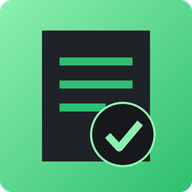
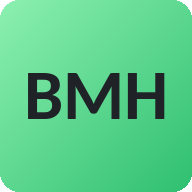
BMH v43: novo nome e logótipo, programas com frase e ficheiro, dois registos (meus e do Secretário), tipos de publicador e funções de ancião
Claude-Session: https://claude.ai/code/session_014jeg4qPBdjkUFjzhRY86ur

diff --git a/index.html b/index.html
@@ -13,7 +13,7 @@
 <link rel="preconnect" href="https://fonts.googleapis.com">
 <link rel="preconnect" href="https://fonts.gstatic.com" crossorigin>
 <link rel="stylesheet" href="https://fonts.googleapis.com/css2?family=Oswald:wght@400;500;600&display=swap">
-<title>Meu Grupo</title>
+<title>BMH</title>
 <style>
 /* Infográfico escuro: fundo carvão, amarelo dourado, separadores em ponta de seta e linha de tempo à esquerda. */
 :root{
@@ -247,8 +247,8 @@ a.btn{text-decoration:none}
 
 <section class="screen" id="home">
   <header class="appbar">
-    <svg class="logo" viewBox="0 0 64 64" role="img" aria-label="Logótipo Meu Grupo"><defs><linearGradient id="lg" x1="0" y1="0" x2="1" y2="1"><stop offset="0" style="stop-color:var(--lg1)"/><stop offset="1" style="stop-color:var(--lg2)"/></linearGradient></defs><rect width="64" height="64" rx="4" fill="url(#lg)"/><rect x="14" y="10" width="36" height="44" rx="2" fill="#1f2226"/><rect x="20" y="19" width="24" height="3" style="fill:var(--lg2)"/><rect x="20" y="26" width="24" height="3" style="fill:var(--lg2)"/><rect x="20" y="33" width="15" height="3" style="fill:var(--lg2)"/><circle cx="42" cy="44" r="11" fill="#16181b" style="stroke:var(--lg3)" stroke-width="2"/><path d="M37 44.5l3.6 4 6.4-7.6" fill="none" style="stroke:var(--lg3)" stroke-width="2.6" stroke-linecap="round" stroke-linejoin="round"/></svg>
-    <div class="sp"><h1>Meu Grupo</h1><small>Lista de recolha do grupo</small></div>
+    <svg class="logo" viewBox="0 0 64 64" role="img" aria-label="Logótipo BMH"><defs><linearGradient id="lg" x1="0" y1="0" x2="1" y2="1"><stop offset="0" style="stop-color:var(--lg1)"/><stop offset="1" style="stop-color:var(--lg2)"/></linearGradient></defs><rect width="64" height="64" rx="4" fill="url(#lg)"/><text x="32" y="43" text-anchor="middle" font-family="Carlito,Calibri,Arial,sans-serif" font-weight="800" font-size="29" fill="#1f2226" textLength="51" lengthAdjust="spacingAndGlyphs">BMH</text></svg>
+    <div class="sp"><h1>BMH</h1><small>Lista de recolha do grupo</small></div>
     <button class="ib themeBtn" aria-label="Mudar entre modo dia e noite" type="button"><svg class="sun" viewBox="0 0 24 24"><path d="M12 7a5 5 0 1 0 0 10 5 5 0 0 0 0-10zM2 13h2v-2H2v2zm18 0h2v-2h-2v2zM11 2v2h2V2h-2zm0 18v2h2v-2h-2zM5.99 4.58 4.58 5.99l1.41 1.41 1.41-1.41-1.41-1.41zm12.02 12.02-1.41 1.41 1.41 1.41 1.41-1.41-1.41-1.41zM18.01 7.4l1.41-1.41-1.41-1.41-1.41 1.41 1.41 1.41zM7.4 18.01l-1.41 1.41-1.41-1.41 1.41-1.41 1.41 1.41z"/></svg><svg class="moon" viewBox="0 0 24 24"><path d="M12.3 3a9 9 0 1 0 8.7 11.6A7 7 0 0 1 12.3 3z"/></svg></button>
   </header>
   <main>
@@ -406,8 +406,10 @@ a.btn{text-decoration:none}
     </div>
     <div class="lbl" style="margin:6px 2px 0">Ano de serviço</div>
     <select class="fld" id="meSy" aria-label="Ano de serviço"></select>
+    <div class="seg" id="meVw" role="radiogroup" aria-label="Que registos ver" style="grid-template-columns:repeat(3,1fr);margin-top:10px"><button role="radio" data-v="m" type="button">Os meus</button><button role="radio" data-v="s" type="button">Secretário</button><button role="radio" data-v="c" type="button">Comparar</button></div>
+    <p class="hint" id="meVwH" style="margin:6px 2px 0"></p>
     <div class="ficha" id="meHist"></div>
-    <p class="tip">Só tu vês estes dados. Ficam neste telemóvel. Para receber os registos anteriores, pede ao superintendente que te envie a tua ficha e abre o link.</p>
+    <p class="tip">Só tu vês estes dados. Ficam neste telemóvel. Para receber os registos anteriores, pede a tua ficha ao Secretário e abre o link ou o ficheiro que ele te enviar.</p>
     <button class="btn text" id="meImp" type="button">Importar a minha ficha (.tsxr)</button>
   </main>
   <button class="fab" id="meAdd" type="button"><svg viewBox="0 0 24 24"><path d="M19 13h-6v6h-2v-6H5v-2h6V5h2v6h6v2z"/></svg>Relatório do mês</button>
@@ -1129,7 +1131,7 @@ $("pFile").onchange=function(){var fs=[].slice.call(this.files);this.value="";va
 $("regImp").onclick=function(){$("pFile").click();};
 function importReg(f){
   var fr=new FileReader();fr.onload=function(){
-    var o;try{o=JSON.parse(fr.result);if(!o||!o.pubs||!o.pubs.length||typeof o.group!=="number")throw 0;}catch(e){toast("Este ficheiro não é uma cópia de publicadores da aplicação Meu Grupo.",1);return;}
+    var o;try{o=JSON.parse(fr.result);if(!o||!o.pubs||!o.pubs.length||typeof o.group!=="number")throw 0;}catch(e){toast("Este ficheiro não é uma cópia de publicadores da aplicação BMH.",1);return;}
     var sp=PG,sr=REG;PG=o.group;REG=loadReg(o.group);var n=0;
     o.pubs.forEach(function(q){var k=norm((q.first||"")+" "+(q.last||"")),p=REG.pubs.filter(function(x){return norm(pname(x))===k})[0];
       if(!p){p=newPub();REG.pubs.push(p);}var id=p.id;for(var a in q)p[a]=q[a];p.id=id;if(!p.rec)p.rec={};n++;});
@@ -1183,8 +1185,25 @@ function renderMe(){
   sel.value=SY;
   var H=0,E=0,M=0;for(var k=0;k<12;k++){var mm=(8+k)%12,yy=k<4?SY-1:SY,r=getRec(ME,mm,yy);if(r){H+=r.h||0;E+=r.e||0;if(r.p||r.h||r.e)M++;}}
   $("meTot").textContent=H;$("meSt").textContent=E;$("meMo").textContent=M;$("meAv").textContent=M?Math.round(H/M):0;
-  crDraw();var box=$("meHist");box.textContent="";box.appendChild(s21Table(ME,SY,null,function(m,y){openMeS(m,y);}));
+  crDraw();renderMeView();
 }
+var MV="m";
+function mvSame(a,b){var pa=!!(a&&(a.p||a.h||a.e)),pb=!!(b&&(b.p||b.h||b.e));return pa===pb&&((a&&a.h)|0)===((b&&b.h)|0)&&((a&&a.e)|0)===((b&&b.e)|0);}
+function mvDiffs(){var n=0,sr=ME.sec?ME.sec.rec:{};for(var k=0;k<12;k++){var mm=(8+k)%12,yy=k<4?SY-1:SY,key=rk(mm,yy);if(!mvSame(ME.rec[key],sr[key]))n++;}return n;}
+function renderMeView(){
+  document.querySelectorAll("#meVw button").forEach(function(b){b.setAttribute("aria-checked",b.dataset.v===MV);});
+  var box=$("meHist"),h=$("meVwH");box.textContent="";var sec=ME.sec&&ME.sec.rec?ME.sec:null;
+  if(MV==="m"){h.textContent="Os registos que tu manténs. Toca num mês para editar.";box.appendChild(s21Table(ME,SY,null,function(m,y){openMeS(m,y);}));return;}
+  if(!sec){h.textContent="Ainda não recebeste a ficha do Secretário. Pede-a ao Secretário e abre o link ou o ficheiro que ele te enviar.";return;}
+  var d=new Date(sec.at||0),ds=sec.at?(("0"+d.getDate()).slice(-2)+"/"+("0"+(d.getMonth()+1)).slice(-2)+"/"+d.getFullYear()):"";
+  if(MV==="s"){h.textContent="Registos enviados pelo Secretário"+(ds?" (recebidos em "+ds+")":"")+". Só para consulta.";var t=s21Table({rec:sec.rec},SY,null,function(){});box.appendChild(t);return;}
+  var n=mvDiffs();h.textContent=(n?n+(n===1?" mês diferente":" meses diferentes"):"Os registos coincidem")+" neste ano de serviço. Secretário"+(ds?" ("+ds+")":"")+".";
+  var rows="",T1=0,T2=0,E1=0,E2=0;
+  for(var k=0;k<12;k++){var mm=(8+k)%12,yy=k<4?SY-1:SY,key=rk(mm,yy),a=ME.rec[key],b=sec.rec[key],same=mvSame(a,b),ha=(a&&a.h)|0,hb=(b&&b.h)|0,ea=(a&&a.e)|0,eb=(b&&b.e)|0;T1+=ha;T2+=hb;E1+=ea;E2+=eb;
+    var st=same?(a||b?"Igual":""):(!b?"Só tu":(!a?"Só Secretário":"Diferente")),cs=same?"":' style="color:var(--bad);font-weight:700"';
+    rows+="<tr><td>"+MESES[mm]+"</td><td"+cs+">"+(a?(ha||(a.p?"pregou":"")):"")+"</td><td"+cs+">"+(ea||"")+"</td><td"+cs+">"+(b?(hb||(b.p?"pregou":"")):"")+"</td><td"+cs+">"+(eb||"")+"</td><td"+cs+">"+st+"</td></tr>";}
+  var tw=document.createElement("div");tw.className="tw";tw.innerHTML='<table style="font-size:12px;table-layout:auto;min-width:0;width:100%"><thead><tr><th>Mês</th><th>Meus<br>horas</th><th>Meus<br>estudos</th><th>Secret.<br>horas</th><th>Secret.<br>estudos</th><th>Estado</th></tr></thead><tbody>'+rows+'<tr class="tot"><td>Total</td><td>'+T1+'</td><td>'+E1+'</td><td>'+T2+'</td><td>'+E2+'</td><td></td></tr></tbody></table>';box.appendChild(tw);}
+document.querySelectorAll("#meVw button").forEach(function(b){b.onclick=function(){MV=b.dataset.v;if(ME)renderMeView();};});
 $("meBtn").onclick=openMe;
 $("meBack").onclick=function(){$("me").hidden=true;goHome();};
 $("meSy").onchange=function(){SY=+this.value;renderMe();};
@@ -1246,11 +1265,23 @@ $("meSend").onclick=function(){var k=saveMeS();if(!k)return;renderMe();var key=r
 var APP_URL="https://myfmwg.netlify.app/";
 function sendLink(o){var b=/^https?:/.test(location.protocol)?location.href.split("#")[0]:APP_URL;return b+"#"+o.k+"="+pack(o);}
 function sendText(o){
-  var t;if(o.k==="m")return "Programa de reuniões: "+cleanS(o.d.m.t,40)+"\nAbre no Meu Grupo: "+sendLink(o);if(o.k==="k")return "Programa mensal do carrinho: "+cleanS(o.d.k.t,40)+"\nAbre no Meu Grupo: "+sendLink(o);if(PK.test(o.k))return (o.k==="p"?"Programa da reunião Vida e Ministério Cristão ("+o.d.w.length+" semanas)":(o.k==="x"?"Configuração de acessos do Meu Grupo":"Programa de campo: "+cleanS(o.d.c.t,40)))+"\nAbre no Meu Grupo: "+sendLink(o);
+  var t;if(o.k==="m")return "Programa de reuniões: "+cleanS(o.d.m.t,40)+"\nAbre no BMH: "+sendLink(o);if(o.k==="k")return "Programa mensal do carrinho: "+cleanS(o.d.k.t,40)+"\nAbre no BMH: "+sendLink(o);if(PK.test(o.k))return (o.k==="p"?"Programa da reunião Vida e Ministério Cristão ("+o.d.w.length+" semanas)":(o.k==="x"?"Configuração de acessos do BMH":"Programa de campo: "+cleanS(o.d.c.t,40)))+"\nAbre no BMH: "+sendLink(o);
   if(o.k==="r"&&o.r.length===1){var a=o.r[0];t="Relatório de serviço de campo, "+o.f+" "+o.l+" (Grupo "+o.g+")\n"+mesLbl(a)+": "+(a[3]?a[3]+" h, ":"")+a[4]+" estudos"+(a[2]||a[3]||a[4]?"":" (não pregou)")+"\n";}
   else t=(o.k==="f"?"Os teus registos de serviço, ":"Relatórios, ")+o.f+" "+o.l+"\n";
-  return t+"Abre no Meu Grupo: "+sendLink(o);}
+  return t+"Abre no BMH: "+sendLink(o);}
+function sendPhrase(o){
+  function cap(t){t=String(t||"").toLowerCase();return t.charAt(0).toUpperCase()+t.slice(1);}
+  if(o.k==="p"){var ms=[],re=/janeiro|fevereiro|mar[cç]o|abril|maio|junho|julho|agosto|setembro|outubro|novembro|dezembro/i;o.d.w.forEach(function(w){var m=re.exec(w.lbl||"");if(m){var x=m[0].toLowerCase();if(ms.indexOf(x)<0)ms.push(x);}});
+    return "Programa de RVMC de "+(ms.length?ms.join(" e "):MESES[new Date().getMonth()].toLowerCase());}
+  if(o.k==="m")return "Programa de reuniões de "+cap(o.d.m.t);
+  if(o.k==="k")return "Programa do carrinho de "+cap(o.d.k.t);
+  if(o.k==="c")return "Programa de campo de "+cap(o.d.c.t);
+  return "Configuração de acessos do BMH";}
 function openSend(o,title,sub){
+  var pk=PK.test(o.k),bw=$("sendWa"),bf=$("sendFile");
+  bf.className=pk?"btn":"btn tonal";bf.textContent=pk?"Enviar com uma frase (ficheiro)":"Partilhar ficheiro (.tsxr)";
+  bw.className=pk?"btn tonal":"btn";bw.textContent=pk?"Enviar o link (código longo)":"Enviar por WhatsApp (link)";
+  if(pk){$("sendFile").parentNode.insertBefore(bf,bw);}else{$("sendFile").parentNode.insertBefore(bw,bf);}
   if(PK.test(o.k)){SEND={o:o,fn:(o.k==="p"?"Programa-VMC":o.k==="m"?"Reunioes":o.k==="k"?"Carrinho":o.k==="x"?"Acessos":"Programa-Campo")+".tsxr"};$("sendT").textContent=title;$("sendSub").textContent=sub;$("sendImg").hidden=o.k!=="k"&&o.k!=="c"&&o.k!=="m";show("sendS");return;}
   $("sendImg").hidden=true;var a=o.r.length===1?o.r[0]:null,nm=(o.f+"-"+o.l).replace(/[^\w-]+/g,"");
   SEND={o:o,fn:(o.k==="r"?"Relatorio-"+(a?MESES[a[1]]+a[0]:"")+"-":"Ficha-")+nm+".tsxr"};
@@ -1258,10 +1289,11 @@ function openSend(o,title,sub){
 $("sendWa").onclick=function(){window.open("https://wa.me/?text="+encodeURIComponent(sendText(SEND.o)),"_blank");};
 $("sendCopy").onclick=function(){var t=sendText(SEND.o);
   try{navigator.clipboard.writeText(t).then(function(){toast("Link copiado. Cola numa mensagem.");},function(){toast("Não consegui copiar.",1);});}catch(e){toast("Não consegui copiar.",1);}};
-$("sendFile").onclick=function(){var txt=JSON.stringify(SEND.o),fn=SEND.fn;
-  try{var f=new File([txt],fn,{type:"application/json"});
-    if(navigator.canShare&&navigator.canShare({files:[f]})){navigator.share({files:[f],title:fn}).catch(function(){});return;}}catch(e){}
-  dl(new Blob([txt],{type:"application/json"}),fn);toast("Ficheiro guardado em Transferências. Envia-o por WhatsApp.");};
+$("sendFile").onclick=function(){var txt=JSON.stringify(SEND.o),fn=SEND.fn,ph=PK.test(SEND.o.k)?sendPhrase(SEND.o):"";
+  try{var f=new File([txt],fn,{type:"application/json"}),d=ph?{files:[f],title:fn,text:ph}:{files:[f],title:fn};
+    if(navigator.canShare&&navigator.canShare(d)){navigator.share(d).catch(function(){});return;}}catch(e){}
+  dl(new Blob([txt],{type:"application/json"}),fn);
+  if(ph){try{navigator.clipboard.writeText(ph);}catch(e){}toast("Ficheiro guardado. Anexa-o no WhatsApp; a frase foi copiada.");}else toast("Ficheiro guardado em Transferências. Envia-o por WhatsApp.");};
 $("fSend").onclick=function(){if(!cur)return;saveReg();openSend(mkPayload("f",cur,PG),"Ficha de "+pname(cur),"O publicador abre o link no telemóvel dele e fica com os seus registos para consultar. Só ele os vê.");};
 /* receber */
 function queuePayload(o){if(!validPayload(o))return false;PEND.push({k:o.k,o:o,create:false});return true;}
@@ -1279,7 +1311,7 @@ function showRcv(){
     if(PK.test(it.k)){b.textContent=it.k==="m"?"Programa de reuniões ("+cleanS(o.d.m.t,40)+")":it.k==="x"?"Configuração de acessos ("+Object.keys(o.d.x.roles||{}).length+" funções)":it.k==="k"?"Programa do carrinho ("+cleanS(o.d.k.t,40)+")":it.k==="p"?"Programa Vida e Ministério ("+o.d.w.length+" semanas)":"Programa de campo ("+cleanS(o.d.c.t,40)+")";sm.textContent="Vai substituir "+(it.k==="p"?"o programa":it.k==="m"?"o programa de reuniões":it.k==="x"?"a configuração de acessos":it.k==="k"?"o quadro do carrinho":"o programa de campo")+" que tens neste telemóvel.";row.appendChild(b);row.appendChild(sm);box.appendChild(row);return;}
     b.textContent=(o.f+" "+o.l).trim()+" · Grupo "+o.g;row.appendChild(b);
     var rs=o.r.filter(okArr);
-    if(it.k==="f"){sm.textContent=rs.length+" meses de registo. Vão ficar neste telemóvel como os teus dados."+(ME&&norm(pname(ME))!==norm(o.f+" "+o.l)?" Atenção: vão substituir os dados de "+pname(ME)+".":"");row.appendChild(sm);}
+    if(it.k==="f"){sm.textContent=rs.length+" meses de registo. Ficam guardados como os registos do Secretário, separados dos teus, para comparares."+(ME&&norm(pname(ME))!==norm(o.f+" "+o.l)?" Atenção: vão substituir os dados de "+pname(ME)+".":"");row.appendChild(sm);}
     else{var reg=loadReg(o.g),p=findPub(reg,o.f,o.l);
       rs.forEach(function(a){var ex=p&&getRec(p,a[1],a[0]),st=!p?"":(!ex?" · novo":((ex.h===a[3]&&ex.e===a[4])?" · já lançado":" · substitui ("+(ex.h||0)+" h, "+(ex.e||0)+" est.)"));
         var d=document.createElement("small");d.textContent=mesLbl(a)+": "+(a[3]?a[3]+" h":(a[2]?"pregou":"não pregou"))+", "+a[4]+" estudos"+st;row.appendChild(d);});
@@ -1293,7 +1325,7 @@ $("rcvNo").onclick=function(){PEND=[];hide();};
 $("rcvOk").onclick=function(){
   var n=0,me=0,prg=0,sp=PG,sr=REG;
   PEND.forEach(function(it){if(PK.test(it.k)){applyProg(it);prg++;return;}var o=it.o,rs=o.r.filter(okArr);
-    if(it.k==="f"){var same=ME&&norm(pname(ME))===norm(o.f+" "+o.l);ME={first:o.f,last:o.l,group:o.g,tipo:(typeof o.y==="number"?o.y|0:(same?ME.tipo:0))||0,sex:o.x||"",rec:same?ME.rec:{}};rs.forEach(function(a){ME.rec[a[0]+"-"+a[1]]=arrToRec(a);});saveMe();me++;return;}
+    if(it.k==="f"){var same=ME&&norm(pname(ME))===norm(o.f+" "+o.l);var own=same?ME.rec:{},hadOwn=Object.keys(own).length>0;ME={first:o.f,last:o.l,group:o.g,tipo:(typeof o.y==="number"?o.y|0:(same?ME.tipo:0))||0,sex:o.x||"",rec:own,sec:{at:Date.now(),rec:{}}};rs.forEach(function(a){var k=a[0]+"-"+a[1];ME.sec.rec[k]=arrToRec(a);if(!hadOwn)ME.rec[k]=arrToRec(a);});saveMe();me++;return;}
     PG=o.g;REG=loadReg(o.g);var p=findPub(REG,o.f,o.l);
     if(!p&&it.create){p=newPub(o.f,o.l);p.sex=o.x||"";REG.pubs.push(p);}
     if(!p)return;rs.forEach(function(a){var k=a[0]+"-"+a[1];delete p.rec[k];p.rec[k]=arrToRec(a);n++;});saveReg();});
@@ -1512,7 +1544,7 @@ function fDay(e,tarde){var f=PRG.c;if(e.w)return e.w;return FD[new Date(f.y,f.m,
 function fCol(e){return (e.c===0||e.c===1)?e.c:(e.n<=17?0:1);}
 function esc(t){return String(t==null?"":t).replace(/&/g,"&amp;").replace(/</g,"&lt;").replace(/>/g,"&gt;");}
 function fm(t){return esc(t).replace(/\*\*(.+?)\*\*/g,"<b>$1</b>").replace(/\[\[(.+?)\]\]/g,'<span class="lk">$1</span>').replace(/(\(T\d+\))/g,'<span class="lk">$1</span>').replace(/\n/g,"<br/>");}
-var FCSS='.fp{width:794px;min-height:1123px;box-sizing:border-box;background:#fff;color:#000;font:14px/1.25 Calibri,Carlito,"Segoe UI",Arial,sans-serif;padding:40px 36px}.fp table{border-collapse:collapse;width:100%;table-layout:fixed}.fp td,.fp th{border:1px solid #000;padding:3px 4px;text-align:center;vertical-align:middle;overflow-wrap:break-word;font-weight:normal}.fp .ttl{background:#FFD966;font-weight:bold;font-size:17px;padding:5px;text-transform:uppercase}.fp .hd td{background:#DDEBF7}.fp .lk{color:#0000EE;text-decoration:underline}.fp .t1{width:72%;margin:0 auto 26px;font-size:12px}.fp .t1 .ttl{font-size:15px}.fp .sg td{text-align:left;font-size:15px;padding:2px 8px}.fp .tri{padding:0!important}.fp .tri div{display:flex;min-height:20px}.fp .tri i{flex:1;background:#FFC000}.fp .tri b{flex:none;width:70px;background:#fff;border-left:1px solid #000;border-right:1px solid #000;display:flex;align-items:center;justify-content:center}';
+var FCSS='.fp{width:794px;min-height:1123px;box-sizing:border-box;background:#fff;color:#000;font:14px/1.25 Calibri,Carlito,"Segoe UI",Arial,sans-serif;padding:40px 36px;display:flex;flex-direction:column}.fp .fgrow{flex:1 1 auto;display:flex;flex-direction:column;min-height:0}.fp .fgrow>table{flex:1 1 auto}.fp table{border-collapse:collapse;width:100%;table-layout:fixed}.fp td,.fp th{border:1px solid #000;padding:3px 4px;text-align:center;vertical-align:middle;overflow-wrap:break-word;font-weight:normal}.fp .ttl{background:#FFD966;font-weight:bold;font-size:17px;padding:5px;text-transform:uppercase}.fp .hd td{background:#DDEBF7}.fp .lk{color:#0000EE;text-decoration:underline}.fp .t1{width:72%;margin:0 auto 26px;font-size:12px}.fp .t1 .ttl{font-size:15px}.fp .sg td{text-align:left;font-size:15px;padding:2px 8px}.fp .tri{padding:0!important}.fp .tri div{display:flex;min-height:20px}.fp .tri i{flex:1;background:#FFC000}.fp .tri b{flex:none;width:70px;background:#fff;border-left:1px solid #000;border-right:1px solid #000;display:flex;align-items:center;justify-content:center}';
 var FBG={h:"#FFD966",s:"#FFFF00",o:"#B4C7E7"};
 function fTop(){var f=PRG.c,h='<table class="t1"><colgroup><col style="width:13%"/><col style="width:24%"/><col style="width:27%"/><col style="width:13%"/><col style="width:23%"/></colgroup><tr><td colspan="5" class="ttl">LOCAIS E HORÁRIO DAS REUNIÕES PARA O MINISTÉRIO: '+esc(f.t)+'</td></tr>'
   +'<tr><td colspan="3">MANHÃ</td><td colspan="2">TARDE</td></tr><tr><td><b>DIA</b></td><td>HORA</td><td>LOCAL</td><td>DIA</td><td>HORAS</td></tr><tr><td>&#160;</td><td></td><td></td><td></td><td></td></tr>';
@@ -1524,8 +1556,8 @@ function fEc(e,tarde){if(!e){var nb=tarde?' style="border:none"':'';return '<td'
   var fo=e.tp==="n"?fm(e.f):"<b>"+fm(e.f)+"</b>",dr=e.tp==="d"?'<b class="lk">'+esc(e.r)+"</b>":fm(e.r);
   return '<td'+st+'>'+fPad(e.n)+'</td><td'+st+'>'+fDay(e,tarde)+'</td><td'+st+'>'+fo+'</td><td'+st+'>'+dr+'</td>';}
 function fList(list,title,tarde){var L=list.filter(function(e){return fCol(e)===0;}).sort(function(a,b){return a.n-b.n;}),R=list.filter(function(e){return fCol(e)===1;}).sort(function(a,b){return a.n-b.n;}),n=Math.max(L.length,R.length);
-  var h='<table><colgroup><col style="width:5%"/><col style="width:6%"/><col style="width:27%"/><col style="width:14%"/><col style="width:5.5%"/><col style="width:6%"/><col style="width:23%"/><col style="width:13.5%"/></colgroup><tr><td colspan="8" class="ttl">'+title+'</td></tr><tr class="hd"><td></td><td>DIA</td><td>FONTE</td><td>DIRIGENTE</td><td colspan="2">DIA</td><td>FONTE</td><td>DIRIGENTE</td></tr>';
-  for(var i=0;i<n;i++)h+="<tr>"+fEc(L[i],tarde)+fEc(R[i],tarde)+"</tr>";return h+"</table>";}
+  var h='<div class="fgrow"><table><colgroup><col style="width:5%"/><col style="width:6%"/><col style="width:27%"/><col style="width:14%"/><col style="width:5.5%"/><col style="width:6%"/><col style="width:23%"/><col style="width:13.5%"/></colgroup><tr><td colspan="8" class="ttl">'+title+'</td></tr><tr class="hd"><td></td><td>DIA</td><td>FONTE</td><td>DIRIGENTE</td><td colspan="2">DIA</td><td>FONTE</td><td>DIRIGENTE</td></tr>';
+  for(var i=0;i<n;i++)h+="<tr>"+fEc(L[i],tarde)+fEc(R[i],tarde)+"</tr>";return h+"</table></div>";}
 function fSig(){var g=PRG.c.sig,k=Math.ceil(g.length/2),h='<table class="sg" style="width:92%;margin:46px auto 0"><colgroup><col style="width:9%"/><col style="width:40%"/><col style="width:9%"/><col style="width:42%"/></colgroup><tr><td>SÍGLA</td><td>PUBLICAÇÃO</td><td>SÍGLA</td><td>PUBLICAÇÃO</td></tr>';
   for(var i=0;i<k;i++){var a=g[i]||["",""],b=g[i+k]||["",""];h+="<tr><td><b>"+esc(a[0])+"</b></td><td>"+esc(a[1])+"</td><td><b>"+esc(b[0])+"</b></td><td>"+esc(b[1])+"</td></tr>";}return h+"</table>";}
 function fPages(){var f=PRG.c;return ['<div class="fp">'+fTop()+fList(f.man,"DIRIGENTES DO PERIODO DA MANHÃ",false)+"</div>",'<div class="fp">'+fList(f.tar,"DIRIGENTES DO PERIODO DA TARDE",true)+fSig()+"</div>"];}
@@ -1604,9 +1636,12 @@ function sha256(a){function rr(v,n){return (v>>>n)|(v<<(32-n));}
   for(i=0;i<8;i++)for(j=3;j+1;j--){var b=(h[i]>>(j*8))&255;res+=((b<16)?0:"")+b.toString(16);}
   return res;}
 var ACK="tsxp.v2.acl",ACL={on:false,roles:{},perm:{},codes:{},mine:{}},ACX=0,ACD=null;
-var ROLES=[["an","Ancião"],["sg","Superintendente de grupo"],["rv","Superintendente da reunião Vida e Ministério"],["sm","Servo ministerial"],["pr","Pioneiro regular"],["pa","Pioneiro auxiliar"]];
+var ROLES=[["an","Ancião"],["sm","Servo ministerial"],["pe","Pioneiro especial"],["pr","Pioneiro regular"],["pa","Pioneiro auxiliar"],["pb","Publicador batizado"],["pn","Publicador não batizado"],["em","Estudante matriculado"],["en","Estudante não matriculado"],["ss","Superintendente de serviço"],["se","Secretário"],["sg","Superintendente de grupo"],["rv","Superintendente da reunião Vida e Ministério"]];
+var TIERS=[["an","anciãos"],["sm","servos ministeriais"],["pe","pioneiros especiais"],["pr","pioneiros regulares"],["pa","pioneiros auxiliares"],["pb","publicadores batizados"],["pn","publicadores não batizados"],["em","estudantes matriculados"],["en","estudantes não matriculados"]];
+function tierTxt(r){var i=-1;TIERS.forEach(function(t,k){if(t[0]===r)i=k;});if(i<0)return "Função que cabe a um ancião. Soma-se ao que ele já vê pelo seu tipo.";if(i===0)return "Vê todas as abas e todos os recursos.";
+  var up=TIERS.slice(0,i).map(function(t){return t[1];}),l=up.length>1?up.slice(0,-1).join(", ")+" e "+up[up.length-1]:up[0];return "Vê todas as abas, exceto alguns recursos de "+l+", a menos que também tenha uma dessas funções.";}
 var FEAT=[["grupo","Lista do grupo, cadastro e relatórios"],["vmc","Editar o programa de reuniões e as partes da semana"],["campo","Editar o programa de campo"],["carrinho","Editar o quadro do carrinho"]];
-var DEFP={sg:["grupo"],rv:["vmc"],sm:["campo","carrinho"],pr:[],pa:[]};
+var DEFP={ss:["campo","carrinho"],se:["grupo"],sg:["grupo"],rv:["vmc"],sm:["campo","carrinho"],pe:[],pr:[],pa:[],pb:[],pn:[],em:[],en:[]};
 try{var a0=JSON.parse(lsGet(ACK)||"null");if(a0&&a0.roles&&a0.perm)ACL={on:!!a0.on,roles:a0.roles,perm:a0.perm,codes:a0.codes||{},mine:a0.mine||{}};}catch(e){}
 function aclSave(){lsSet(ACK,JSON.stringify(ACL));}
 function hasRole(r){return !!ACL.roles[r]&&ACL.mine[r]===ACL.roles[r].h;}
@@ -1636,11 +1671,13 @@ $("acBtn").onclick=function(){
   $("acSt").textContent=ACL.on?"Acessos ativos. Só quem tem código de uma função vê os menus dessa função. Os anciãos veem tudo.":"Acessos desativados: todos veem tudo. Define um código por função e carrega em “Guardar e ativar”.";
   $("acConf").hidden=true;$("acOff").dataset.c="";$("acOff").hidden=!ACL.on;$("acSend").hidden=!ACL.on;renderAc();show("acS");};
 function renderAc(){var box=$("acRoles");box.textContent="";
-  ROLES.forEach(function(x){var r=x[0],c=document.createElement("div");c.className="wit";var t=document.createElement("b");t.textContent=x[1];c.appendChild(t);
+  ROLES.forEach(function(x){var r=x[0];if(r==="an"||r==="ss"){var hh=document.createElement("div");hh.className="lbl";hh.style.margin="12px 0 4px";hh.textContent=r==="an"?"Tipos de publicador (do mais alto ao mais baixo)":"Funções de ancião (somam-se ao tipo)";box.appendChild(hh);}
+  var c=document.createElement("div");c.className="wit";var t=document.createElement("b");t.textContent=x[1];c.appendChild(t);
     var g=document.createElement("div");g.className="field2";g.style.gridTemplateColumns="1fr 96px";
     var i=document.createElement("input");i.className="fld";i.type="text";i.maxLength=30;i.placeholder=r==="an"?"Código dos anciãos (obrigatório)":"Código (vazio = ninguém desbloqueia)";i.value=ACD.codes[r];i.setAttribute("aria-label","Código de "+x[1]);i.oninput=function(){ACD.codes[r]=i.value.trim().toUpperCase();};
     var b=document.createElement("button");b.className="btn tonal";b.type="button";b.textContent="Gerar";b.onclick=function(){ACD.codes[r]=genCode();i.value=ACD.codes[r];};g.appendChild(i);g.appendChild(b);c.appendChild(g);
-    if(r==="an"){var h=document.createElement("small");h.textContent="Vê tudo e é o único que abre esta janela.";h.style.color="var(--muted)";c.appendChild(h);}
+    var tt=document.createElement("small");tt.textContent=tierTxt(r);tt.style.cssText="display:block;color:var(--muted);margin:4px 0 2px";c.appendChild(tt);
+    if(r==="an"){var h=document.createElement("small");h.textContent="É o único tipo que abre esta janela.";h.style.color="var(--muted)";c.appendChild(h);}
     else{var sg=document.createElement("div");sg.className="seg";sg.setAttribute("role","group");sg.style.gridTemplateColumns="1fr 1fr";
       FEAT.forEach(function(f){var fb=document.createElement("button");fb.type="button";fb.setAttribute("role","checkbox");fb.setAttribute("aria-checked",ACD.perm[r].indexOf(f[0])>=0);fb.textContent=f[1];fb.style.fontSize="12px";
         fb.onclick=function(){var k=ACD.perm[r].indexOf(f[0]);if(k>=0)ACD.perm[r].splice(k,1);else ACD.perm[r].push(f[0]);fb.setAttribute("aria-checked",k<0);};sg.appendChild(fb);});c.appendChild(sg);}

diff --git a/sw.js b/sw.js
@@ -1,4 +1,4 @@
-const V='tsxp-v36';
+const V='tsxp-v43';
 const FILES=['./','index.html','manifest.webmanifest','icon-192.png','icon-512.png','icon-maskable-512.png'];
 self.addEventListener('install',e=>{e.waitUntil(caches.open(V).then(c=>c.addAll(FILES)).then(()=>self.skipWaiting()));});
 self.addEventListener('activate',e=>{e.waitUntil(caches.keys().then(ks=>Promise.all(ks.filter(k=>k!==V).map(k=>caches.delete(k)))).then(()=>self.clients.claim()));});
